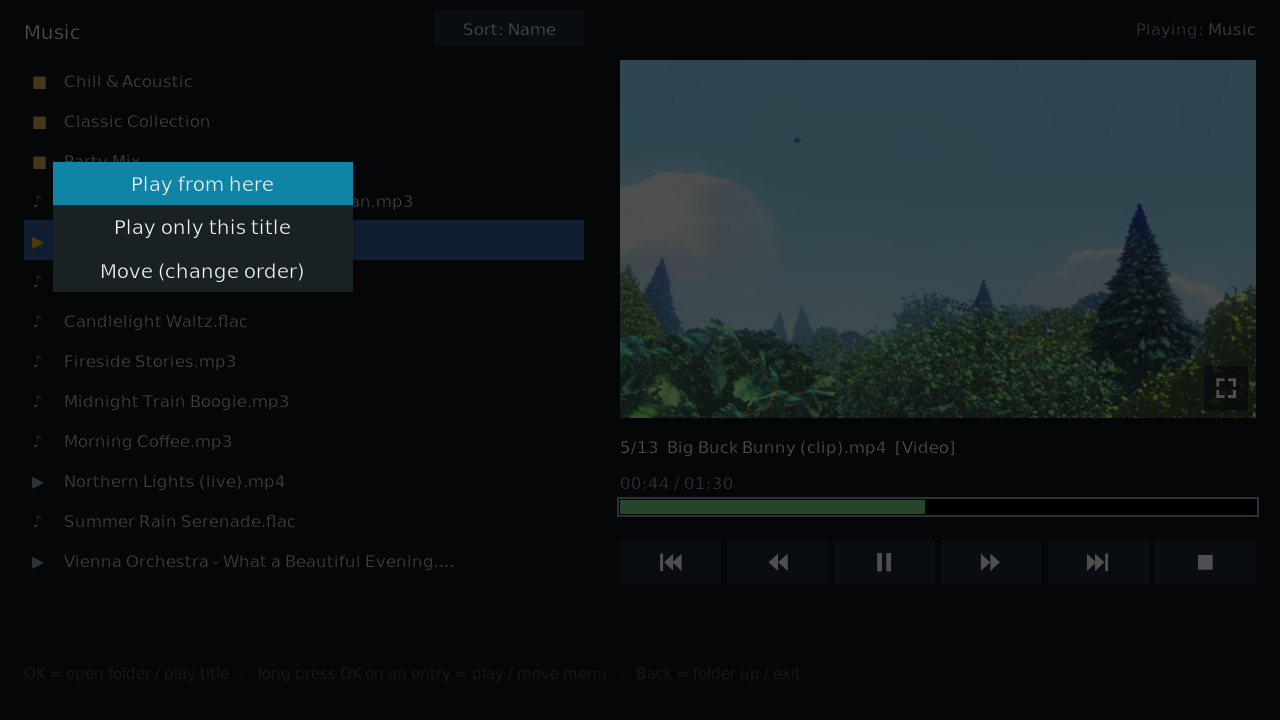
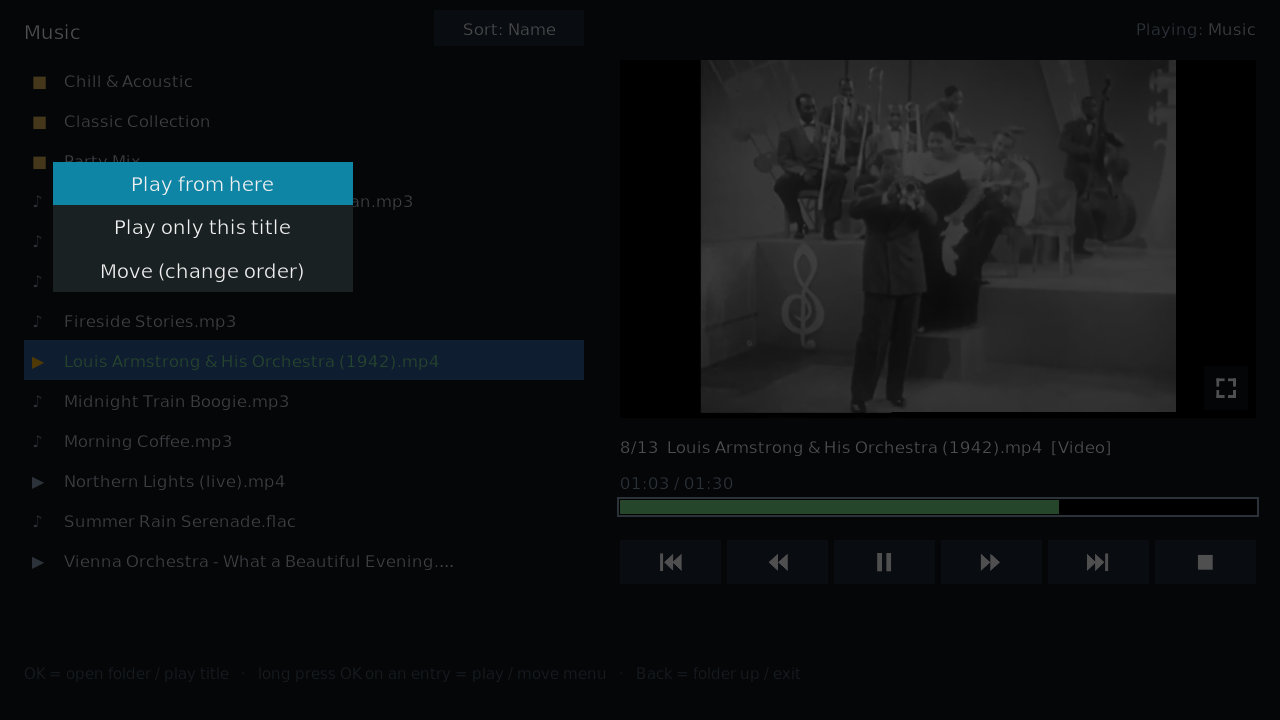
screenshots: real music-video footage (1942 Louis Armstrong soundie, PD)
A jazz-band performance instead of Big Buck Bunny - this is what the
add-on is actually for. Source: Prelinger Archives reel, public domain.

Claude-Session: https://claude.ai/code/session_019dfX5gx3bWZpcJXcC8nStw

diff --git a/README.md b/README.md
@@ -13,7 +13,7 @@ Windows) and Kodi 22 beta (Android TV). Landscape only — like Kodi itself.
 <img src="docs/screenshots/move-mode.png" width="49%" alt="Move mode: reorder titles by hand"/>
 </p>
 
-<sub>Video in the screenshots: "Big Buck Bunny", © 2008 Blender Foundation / bigbuckbunny.org (CC-BY 3.0)</sub>
+<sub>Video in the screenshots: Louis Armstrong &amp; His Orchestra, 1942 "Soundie" short film (public domain, via the Prelinger Archives)</sub>
 
 ## Features
 
